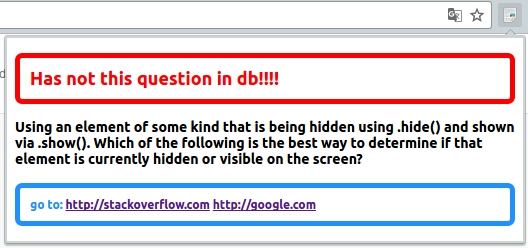
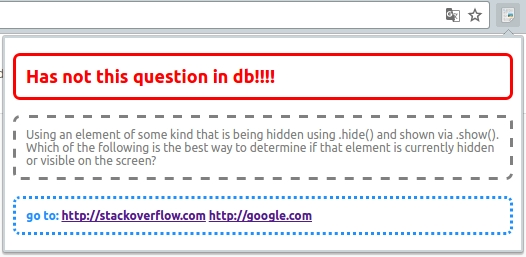
edit view

diff --git a/style.css b/style.css
@@ -2,14 +2,14 @@ body {
   min-width: 500px;
 }
 .rightAnswer {
-  border: 5px;
+  border: 3px;
   border-color: #009406;
   border-style: solid;
   border-radius: 7px;
   padding: 10px;
 }
 .error {
-  border: 5px;
+  border: 3px;
   border-color: red;
   border-style: solid;
   border-radius: 7px;
@@ -17,12 +17,20 @@ body {
   color: red;
 }
 .info {
-  border: 5px;
+  border: 3px;
   border-color: dodgerblue;
-  border-style: solid;
+  border-style: dotted;
   border-radius: 7px;
   padding: 10px;
   color: dodgerblue;
+}
+.questionNotFound {
+  border: 3px;
+  border-color: gray;
+  border-style: dashed;
+  border-radius: 7px;
+  padding: 10px;
+  color: gray;
 }
 .hide {
   display: none !important;

diff --git a/popup.html b/popup.html
@@ -12,7 +12,7 @@
     <div id="container">
       <img class="hide" src="" alt="" />
       <h2 class="hide error">Has not this question in db!!!!</h2>
-      <h3 id="question" class="hide"></h3>
+      <p id="question" class="questionNotFound hide"></p>
       <h4 class="hide info">go to:
         <a href="http://stackoverflow.com" target="_blank">http://stackoverflow.com</a>
         <a href="http://google.com" target="_blank">http://google.com</a>

diff --git a/popup.js b/popup.js
@@ -64,7 +64,7 @@ function onWindowLoad() {
             } else if (data.version == "new") {
               if (data.answers.length == 0) {
                 // Has not answer(s)
-                $('h2.hide, h3.hide, h4.hide').removeClass('hide');  
+                $('h2.hide, h4.hide, #question').removeClass('hide');  
               } else {
                 // Right Answer(s)
                 $.each( data.answers, function( key, value ) {
